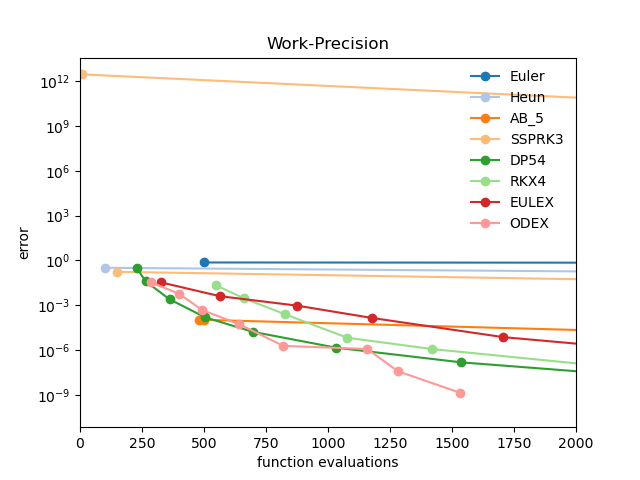
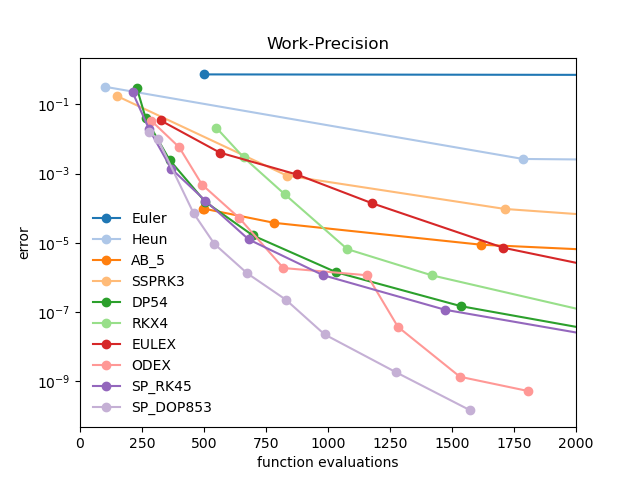
readme updated and equations fixed, scipy solvers in work-precision graph (#8)

diff --git a/problems/work_precision.py b/problems/work_precision.py
@@ -5,6 +5,7 @@ import numpy as np
 from matplotlib import pyplot as plt
 from numpy.typing import NDArray
 import pandas as pd
+from scipy.integrate import solve_ivp
 
 from modules.helpers import norm_hairer
 from modules.step_control import (
@@ -28,6 +29,7 @@ logger_pil.setLevel(logging.INFO)
 
 cmap = plt.get_cmap("tab20")
 
+
 def get_run_extrap(extrap_scheme):
     def run_extrap(ode_fun, x0, t_max, atol, rtol):
         solver_extrap = extrap_scheme(
@@ -38,6 +40,25 @@ def get_run_extrap(extrap_scheme):
         return solver_extrap.solve(x0, t_max)
 
     return run_extrap
+
+
+def get_run_scipy(scheme_name):
+    def run_sp(ode_fun, x0, t_max, atol, rtol):
+        sol = solve_ivp(ode_fun, (0.0, t_max), x0, scheme_name, atol=atol, rtol=rtol)
+        return (
+            sol.t,
+            sol.y.T,
+            dict(
+                n_feval=sol.nfev,
+                n_jaceval=sol.njev,
+                n_lu=sol.nlu,
+                n_restarts=0,
+                local_errors=[],
+            ),
+        )
+
+    return run_sp
+
 
 def run_problem(ode_problem: dict, solver_runfunc, solver_run_kwargs=dict()):
     t_start = perf_counter()
@@ -110,8 +131,11 @@ def x_dot_logproblem(t: float, x: NDArray[np.floating]) -> NDArray[np.floating]:
             -2 * t * x[1] * np.log(np.maximum(x[0], 1e-3)),
         ]
     )
+
+
 def x_analytic_logproblem(t: float) -> NDArray[np.floating]:
     return np.array([np.exp(np.sin(t * t)), np.exp(np.cos(t * t))]).T
+
 
 ode_problem = dict(
     x_dot=x_dot_logproblem,
@@ -120,7 +144,7 @@ ode_problem = dict(
     x_analytic=x_analytic_logproblem,
 )
 
-precision_list = [1e-2, 1e-3, 1e-4, 1e-5, 1e-6, 1e-7, 1e-8, 1e-9]
+precision_list = [1e-2, 1e-3, 1e-4, 1e-5, 1e-6, 1e-7, 1e-8, 1e-9, 1e-10]
 solver_list = [DP54]
 norm = norm_hairer
 
@@ -130,17 +154,17 @@ data["Euler"] = benchmark_solver_stepsize(
     ode_problem, Euler, precision_list[:3], p_expected=1.0, h_initial=1e-2
 )
 data["Heun"] = benchmark_solver_stepsize(
-    ode_problem, Heun, precision_list[:4], p_expected=1.0, h_initial=1e-1
+    ode_problem, Heun, precision_list[:4], p_expected=2.0, h_initial=1e-1
 )
 data["AB_5"] = benchmark_solver_stepsize(
     ode_problem,
     partial(AB_k, k=5),
     precision_list[1:],
-    p_expected=1.0,
+    p_expected=5.0,
     h_initial=1e-2,  # this diverges for low precision / too large step sizes
 )
 data["SSPRK3"] = benchmark_solver_stepsize(
-    ode_problem, SSPRK3, precision_list[:5], p_expected=1.0, h_initial=1e-1
+    ode_problem, SSPRK3, precision_list[:4], p_expected=3.0, h_initial=1e-1
 )
 data["DP54"] = benchmark_solver_controlled(ode_problem, DP54, precision_list)
 data["RKX4"] = benchmark_solver_controlled(ode_problem, RKX4, precision_list)
@@ -149,6 +173,12 @@ data["EULEX"] = benchmark_solver_controlled(
 )
 data["ODEX"] = benchmark_solver_controlled(
     ode_problem, get_run_extrap(ModMidpointExtrapolation), precision_list
+)
+data["SP_RK45"] = benchmark_solver_controlled(
+    ode_problem, get_run_scipy("RK45"), precision_list
+)
+data["SP_DOP853"] = benchmark_solver_controlled(
+    ode_problem, get_run_scipy("DOP853"), precision_list
 )
 
 #  efficiency
@@ -169,7 +199,7 @@ for i, (scheme_name, dat_solver) in enumerate(data.items()):
         color=cmap(i),
     )
 ax.legend(frameon=False)
-fig.savefig("work_precision.png")
+# fig.savefig("work_precision.png")
 plt.tight_layout()
 plt.show()
 

diff --git a/README.md b/README.md
@@ -19,12 +19,12 @@ Some test problems are supplied. Additionally, there are so scripts to evaluate 
 ## work-precision graphs
 benchmark problem:
 $$
-\begin{aligned}
-  \dot{x}_0 &= 2 t  x_0 \log(\max(x_1, 1e-3))\\
-  \dot{x}_1 &=-2 t  x_1 \log(\max(x_0, 1e-3))
-\end{aligned}
+\begin{align*}
+  \dot{x}\_0 &= 2 t  x\_0 \log(\max(x\_1, 10^{-3}))\\
+  \dot{x}\_1 &=-2 t  x\_1 \log(\max(x\_0, 10^{-3}))
+\end{align*}
 $$
-with $x(t=0) = (1, e)$, $t_\mathrm{max} = 5$
+with $x(t=0) = (1, e)$, $t\_\mathrm{max} = 5$
 
 ![work-precision-explicit](work_precision_expl_single.png.png)
 _single-points for explicit schemes_
@@ -32,7 +32,8 @@ _single-points for explicit schemes_
 ![work-precision](work_precision.png)
 _work precision graph for benchmark problem_
 
-The superiority of the adaptive schemes becomes very clear. It is also visible that ODEX is quite competitive with the Dormand-Prince method, even more for at high precision requirements. EULEX on the other hand exhibits a lower efficiency, even worse than the extrapolated RK scheme.
+The superiority of the adaptive schemes becomes very clear. It is also visible that ODEX is quite competitive with the Dormand-Prince method, even more at high precision requirements. DOP853 is however still better.
+EULEX on the other hand exhibits a lower efficiency, even worse than the extrapolated RK scheme.
 
 ## N-body problem simulation
 ![N-body](N-body.gif)
@@ -86,13 +87,13 @@ _In the same case, ODEX (which is slightly faster than DP54) has much better ene
 
 # Zhabotinsky-Belousov reaction / Oregonator
 $$
-\begin{aligned}
+\begin{align*}
 \begin{split}
-  \dot{x}_0 &= s (x_1 - x_1 x_0 - q x_0) \\
-  \dot{x}_1  &= 1 / s (-x_1 - x_1 x_0 + f x_2)\\
-  \dot{x}_2 &=w (x_0 - x_2) \\
+  \dot{x}\_0 &= s (x\_1 - x\_1 x\_0 - q x\_0) \\
+  \dot{x}\_1 &= 1 / s (-x\_1 - x\_1 x\_0 + f x\_2)\\
+  \dot{x}\_2 &=w (x\_0 - x\_2)
 \end{split}
-\end{aligned}
+\end{align*}
 $$
 with $s = 7.27$, $q=8.375 \cdot 10^{-6}$, $f=1$, and $w=0.161$.
 
